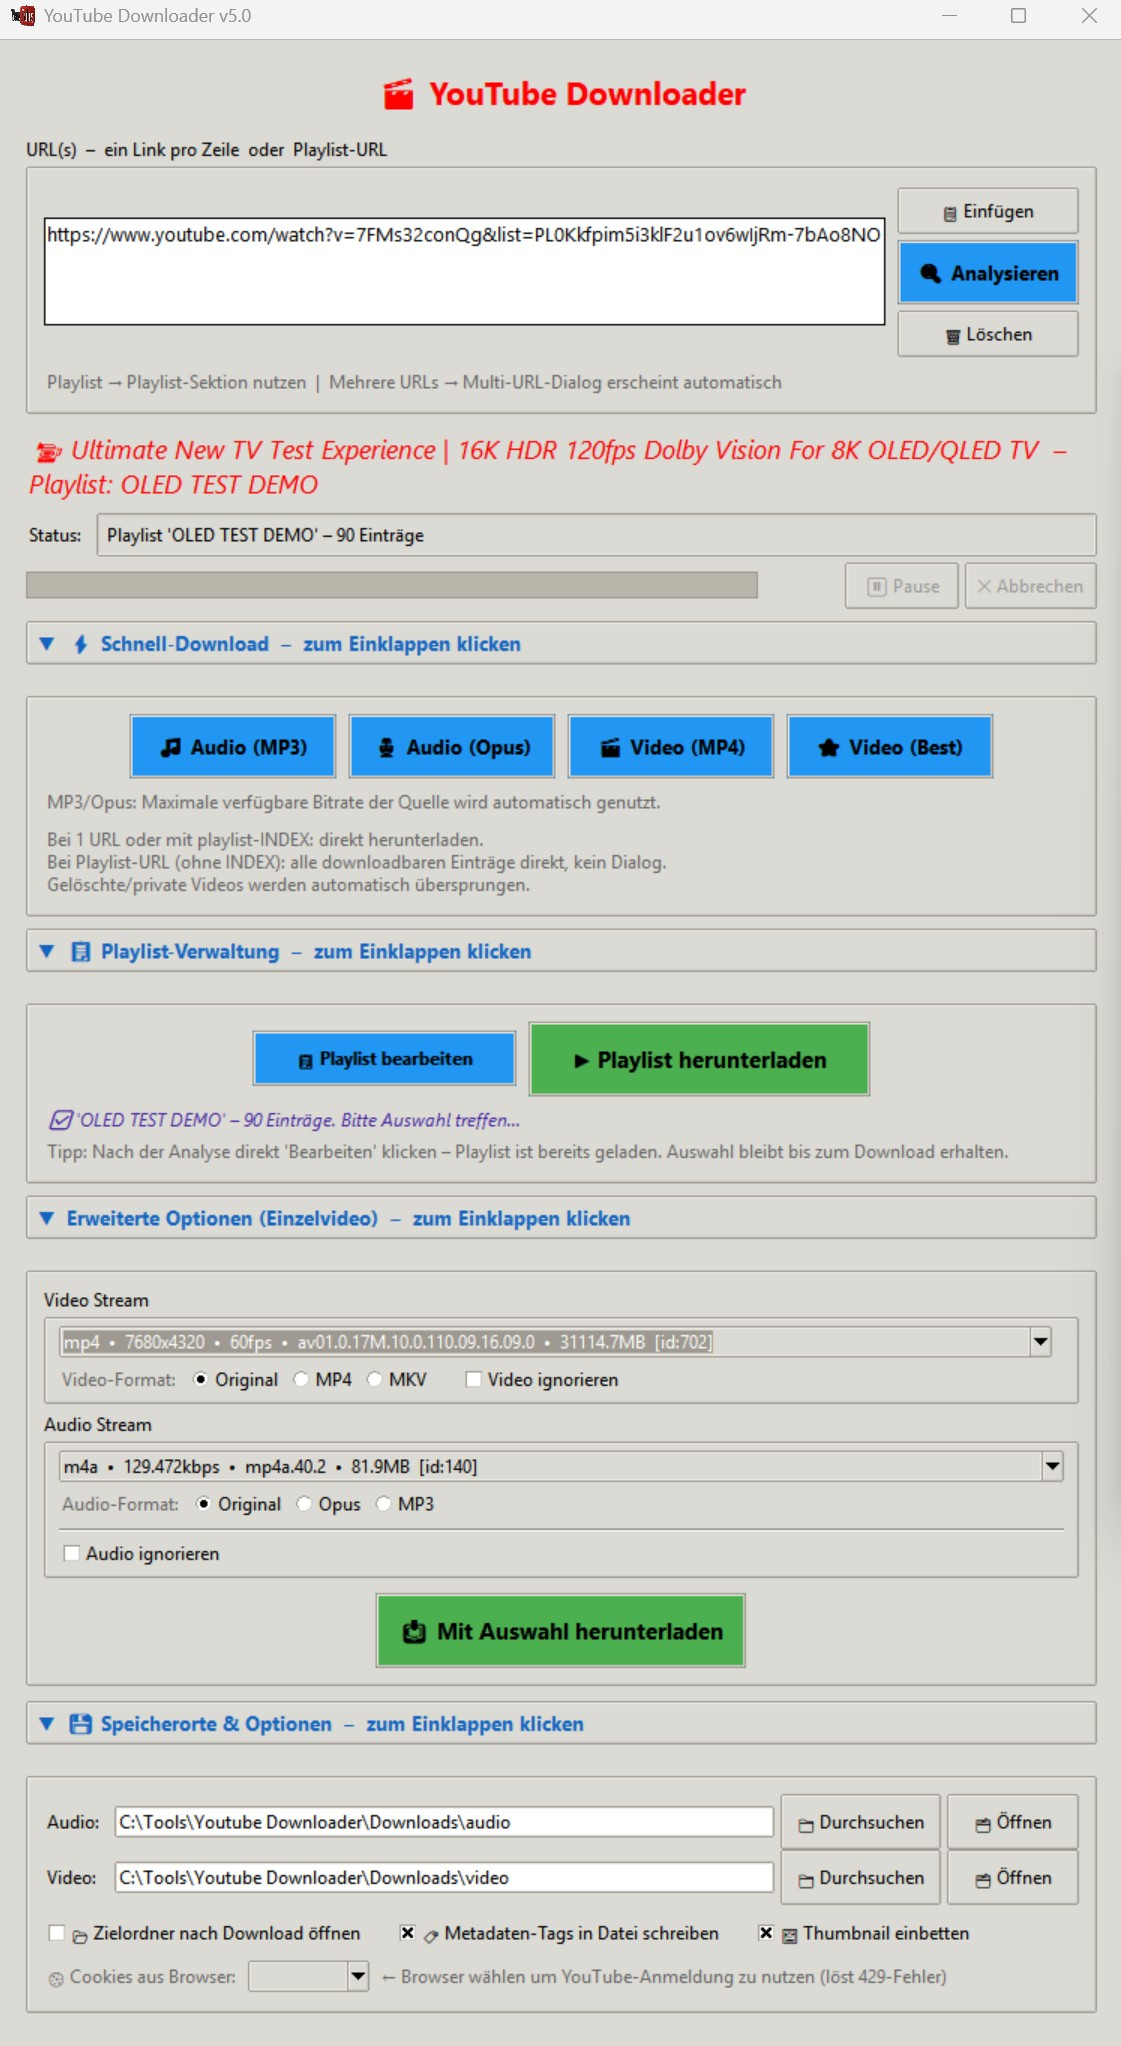
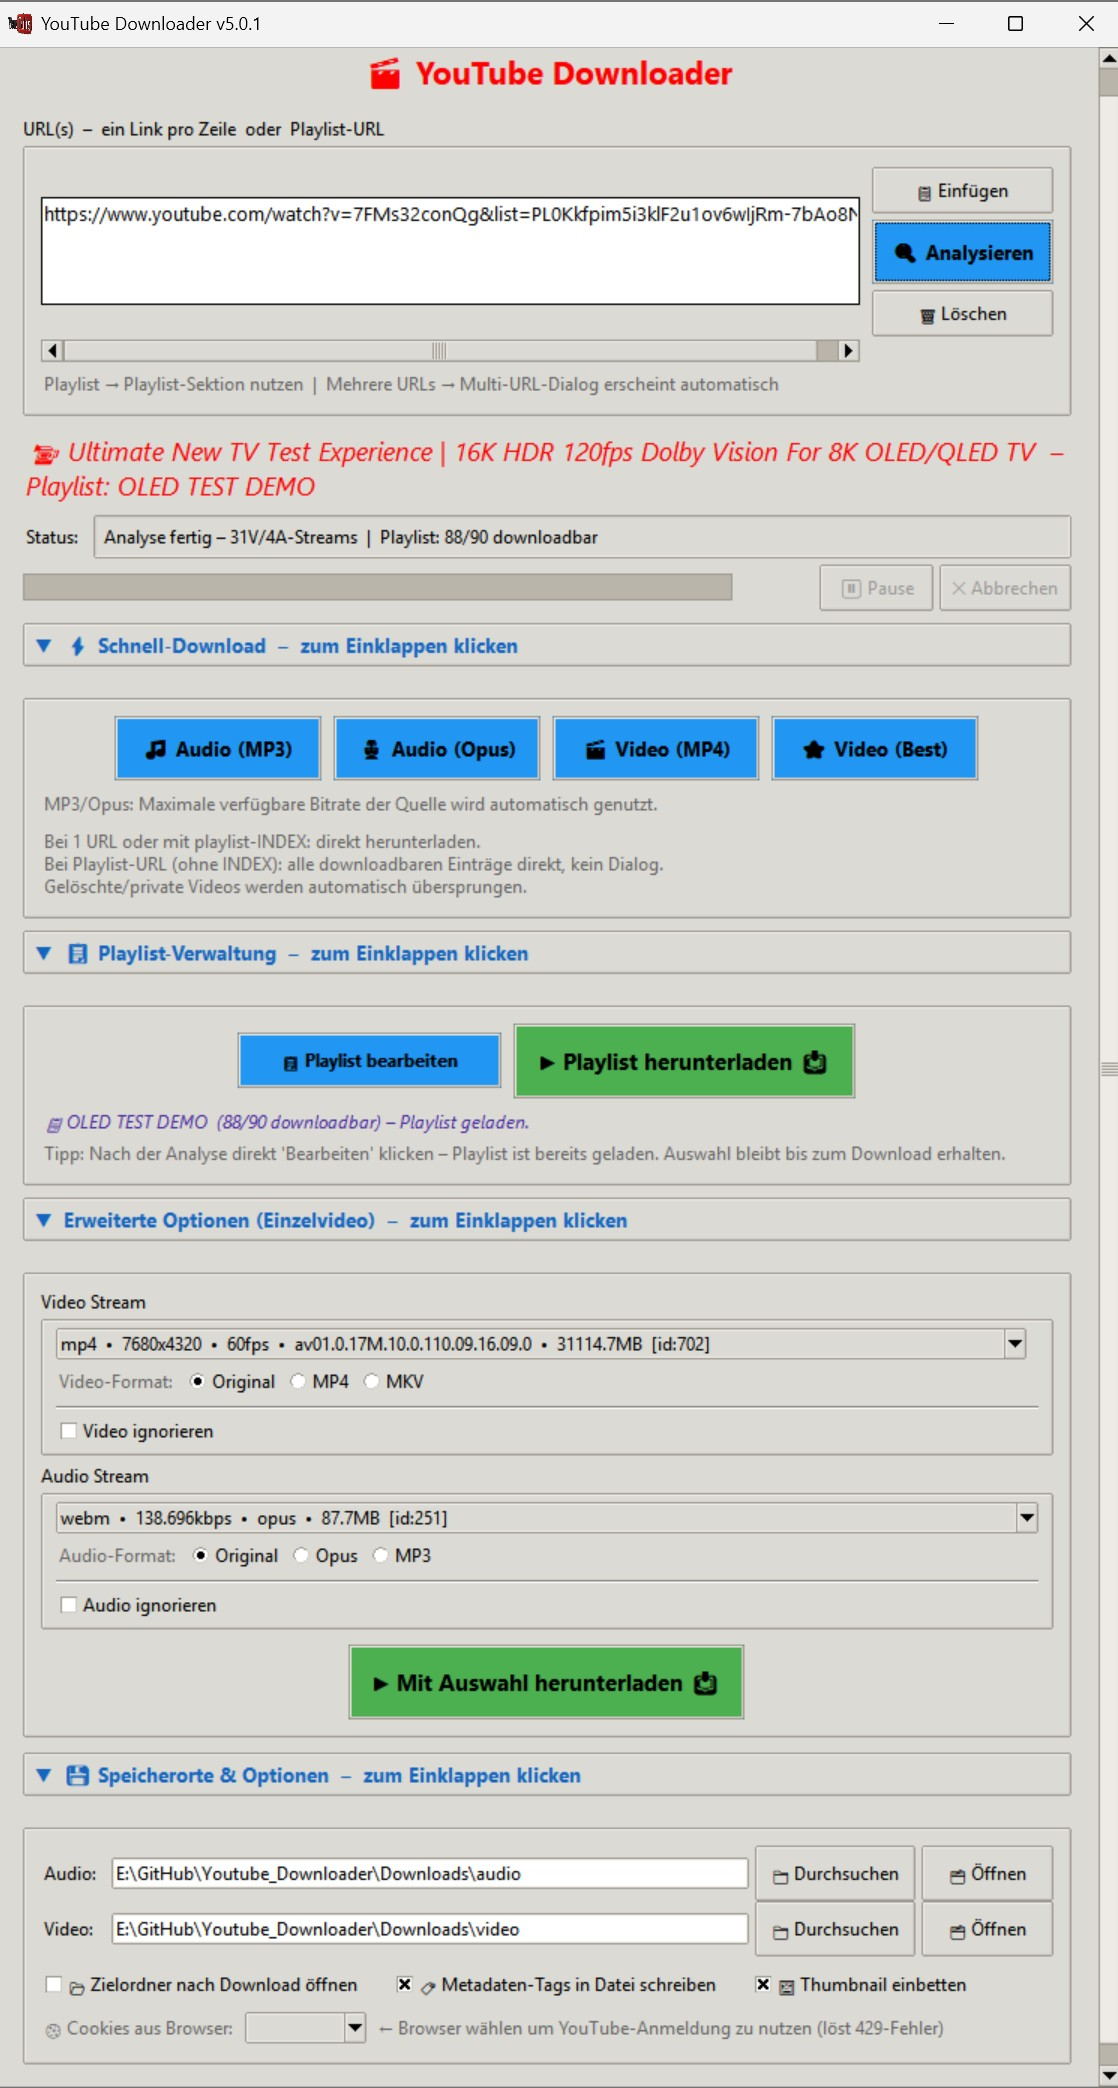
v5.0.1
intuitivere Farben und voreinstellungen

Changed region(s): [[0.0, 0.0, 1.0, 1.0]]

diff --git a/yt_downloader_gui.py b/yt_downloader_gui.py
@@ -1,6 +1,6 @@
 # -*- coding: utf-8 -*-
 
-__version__ = '5.0'
+__version__ = '5.0.1'
 
 """
 YouTube Downloader GUI
@@ -73,9 +73,9 @@ _CONFIG_SCHEMA: dict[str, tuple[str, object]] = {
     'audio_path':         ('str',  ''),
     'video_path':         ('str',  ''),
     'audio_to_mp3':       ('bool', True),
-    'audio_format':       ('str',  'mp3'),
+    'audio_format':       ('str',  'original'),
     'video_to_mp4':       ('bool', True),
-    'video_format':       ('str',  'mp4'),
+    'video_format':       ('str',  'original'),
     'mp3_bitrate':        ('str',  '320'),
     'open_folder':        ('bool', False),
     'write_tags':         ('bool', True),
@@ -753,8 +753,8 @@ class _BaseSelectionDialog(Toplevel):
             v.trace_add('write', lambda *_: self._upd_count())
         ttk.Button(foot, text="✕ Abbrechen",
                    command=self._cancel).pack(side='right', padx=(6, 0))
-        ttk.Button(foot, text="✔ Ausgewählte herunterladen",
-                   style='Action.TButton', command=self._ok).pack(side='right')
+        ttk.Button(foot, text="📋✔ Auswahl merken",
+                   style='Primary.TButton', command=self._ok).pack(side='right')
 
     # ── Shared-Logik ──────────────────────────────────────────────────────────
 
@@ -827,7 +827,7 @@ class PlaylistDialog(_BaseSelectionDialog):
     checked_indices   – Set[int]: welche Einträge beim letzten Öffnen angehakt waren.
                         None bedeutet: Standardverhalten (alle downloadbaren an).
     downloaded_stems  – dict[str, str]: stem → 'audio'|'video', Dateien im Zielordner.
-                        Passende Einträge werden hellgrün markiert + Symbol angezeigt.
+                        Passende Einträge werden weiß markiert + Symbol angezeigt.
     """
 
     # Hintergrundfarben
@@ -1089,9 +1089,9 @@ class YouTubeDownloaderApp:
         self.audio_path_var    = StringVar()
         self.video_path_var    = StringVar()
         self.audio_to_mp3_var  = BooleanVar(value=True)
-        self.audio_format_var  = StringVar(value="mp3")   # "original" | "opus" | "mp3"
+        self.audio_format_var  = StringVar(value="original")   # "original" | "opus" | "mp3"
         self.video_to_mp4_var  = BooleanVar(value=True)
-        self.video_format_var  = StringVar(value="mp4")   # "original" | "mp4" | "mkv"
+        self.video_format_var  = StringVar(value="original")   # "original" | "mp4" | "mkv"
         self.mp3_bitrate_var   = StringVar(value="320")
         self.quick_bitrate_var = StringVar(value="320")
         self.open_folder_var      = BooleanVar(value=False)
@@ -1230,7 +1230,7 @@ class YouTubeDownloaderApp:
         s.configure('Primary.TButton',
                     padding=10, font=('Segoe UI', 10, 'bold'), background="#2196F3")
         s.configure('Action.TButton',
-                    padding=12, font=('Segoe UI', 11, 'bold'), background="#4CAF50")
+                    padding=12, font=('Segoe UI', 11, 'bold'), background="#4CAF50") # blau:2196F3 gruen:4CAF50
         s.configure('Secondary.TButton', padding=8, font=('Segoe UI', 9))
         s.configure('Playlist.TButton',  padding=8, font=('Segoe UI', 9, 'bold'),
                     background="#2196F3")
@@ -1410,7 +1410,7 @@ class YouTubeDownloaderApp:
         ttk.Button(pl_btn_row, text="📋 Playlist bearbeiten",
                    command=self.open_playlist_editor,
                    style='Playlist.TButton', width=22).pack(side='left', padx=4)
-        ttk.Button(pl_btn_row, text="▶ Playlist herunterladen",
+        ttk.Button(pl_btn_row, text="▶ Playlist herunterladen 📥",
                    command=self.download_pending_playlist,
                    style='Action.TButton', width=22).pack(side='left', padx=4)
 
@@ -1470,8 +1470,13 @@ class YouTubeDownloaderApp:
         for lbl, val in [("Original", "original"), ("MP4", "mp4"), ("MKV", "mkv")]:
             ttk.Radiobutton(video_opts, text=lbl, variable=self.video_format_var,
                             value=val).pack(side='left', padx=(0, 4))
-        ttk.Checkbutton(video_opts, text="Video ignorieren",
-                        variable=self.ignore_video_var).pack(side='left', padx=(16, 0))
+        #ttk.Checkbutton(video_opts, text="Video ignorieren",
+        #                variable=self.ignore_video_var).pack(side='left', padx=(16, 0))
+        ttk.Separator(video_lf, orient='horizontal').grid(row=2, column=0, sticky='ew', pady=(6, 4))
+        ignore_video_row = ttk.Frame(video_lf)
+        ignore_video_row.grid(row=3, column=0, sticky='w')
+        ttk.Checkbutton(ignore_video_row, text="Video ignorieren",
+                        variable=self.ignore_video_var).pack(side='left')
 
         # ── Bereich: Audio Stream ─────────────────────────────────────────────
         audio_lf = ttk.LabelFrame(self._adv_frame, text="Audio Stream", padding=(8, 4))
@@ -1510,7 +1515,7 @@ class YouTubeDownloaderApp:
         ttk.Checkbutton(ignore_audio_row, text="Audio ignorieren",
                         variable=self.ignore_audio_var).pack(side='left')
 
-        ttk.Button(self._adv_frame, text="📥 Mit Auswahl herunterladen",
+        ttk.Button(self._adv_frame, text="▶ Mit Auswahl herunterladen 📥",
                    command=self.download_custom,
                    style='Action.TButton').grid(
             row=2, column=0, columnspan=2, pady=(4, 0))
@@ -2651,10 +2656,10 @@ class YouTubeDownloaderApp:
             self._resolve_and_run(urls, mode, bitrate, label)
         Thread(target=t, daemon=True).start()
 
-    def quick_audio_mp3(self):   self._quick_download('audio_mp3',  '0',   "🎵 Audio (MP3) lädt...")
-    def quick_audio_opus(self):  self._quick_download('audio_opus', '0',   "🎙 Audio (Opus) lädt...")
-    def quick_video_mp4(self):   self._quick_download('video_mp4',  '192', "🎬 Video (MP4) lädt...")
-    def quick_video_best(self):  self._quick_download('video_best', '192', "⭐ Video Max lädt...")
+    def quick_audio_mp3(self):   self._quick_download('audio_mp3',  '0', "🎵 Audio (MP3) lädt...")
+    def quick_audio_opus(self):  self._quick_download('audio_opus', '0', "🎙 Audio (Opus) lädt...")
+    def quick_video_mp4(self):   self._quick_download('video_mp4',  '0', "🎬 Video (MP4) lädt...")
+    def quick_video_best(self):  self._quick_download('video_best', '0', "⭐ Video Max lädt...")
 
     # Kompatibilitäts-Aliase
     def download_audio(self):      self.quick_audio_mp3()
